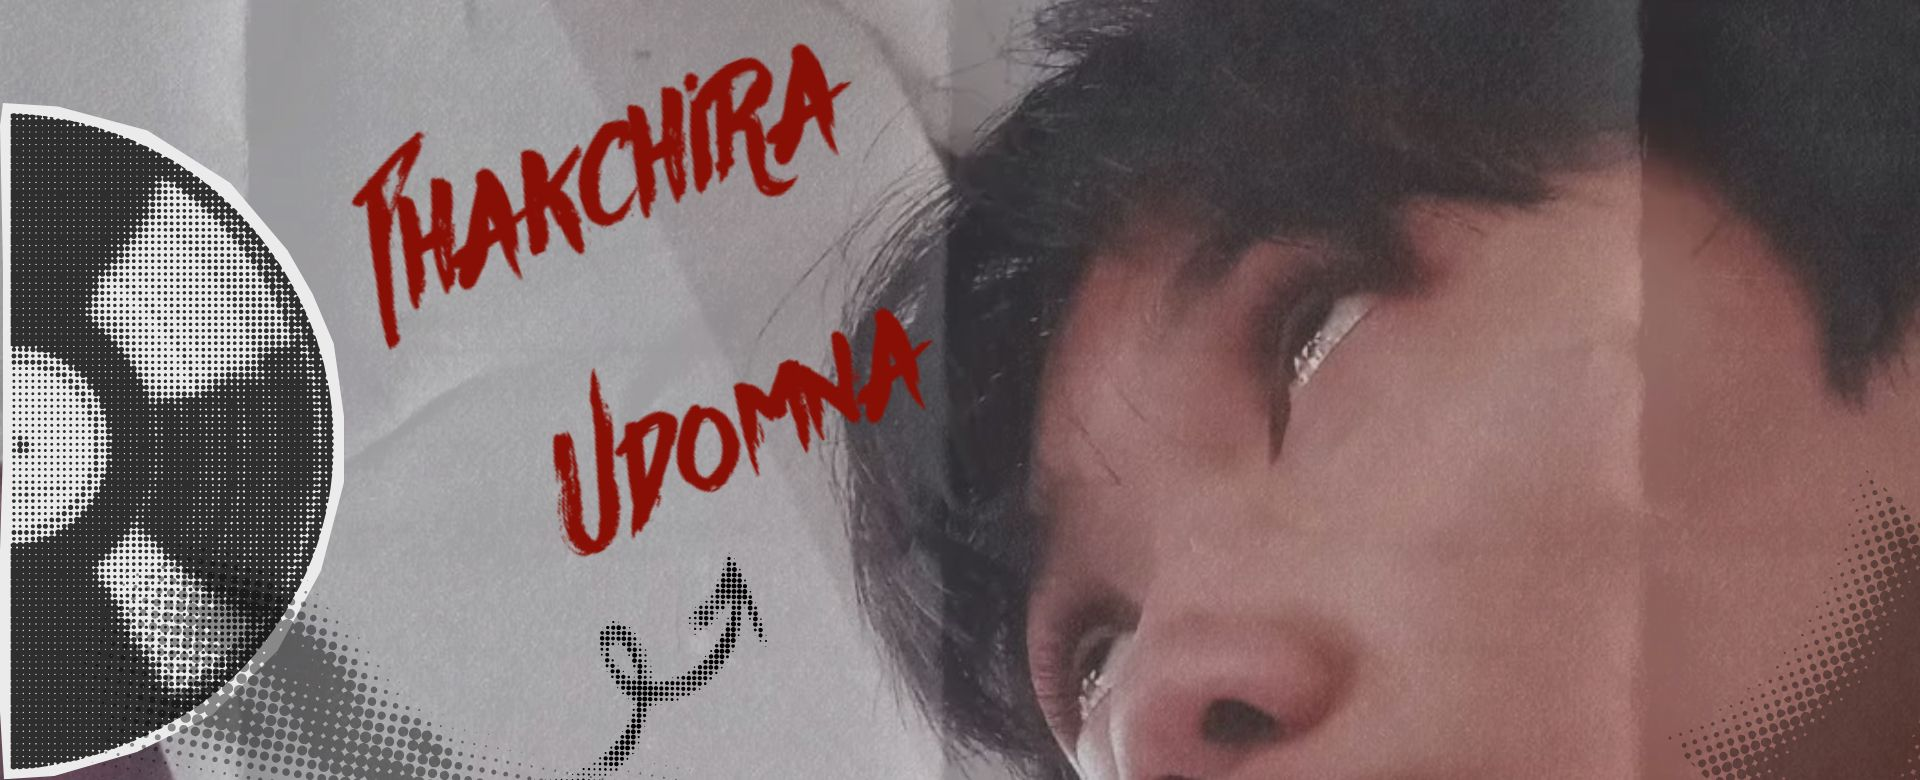
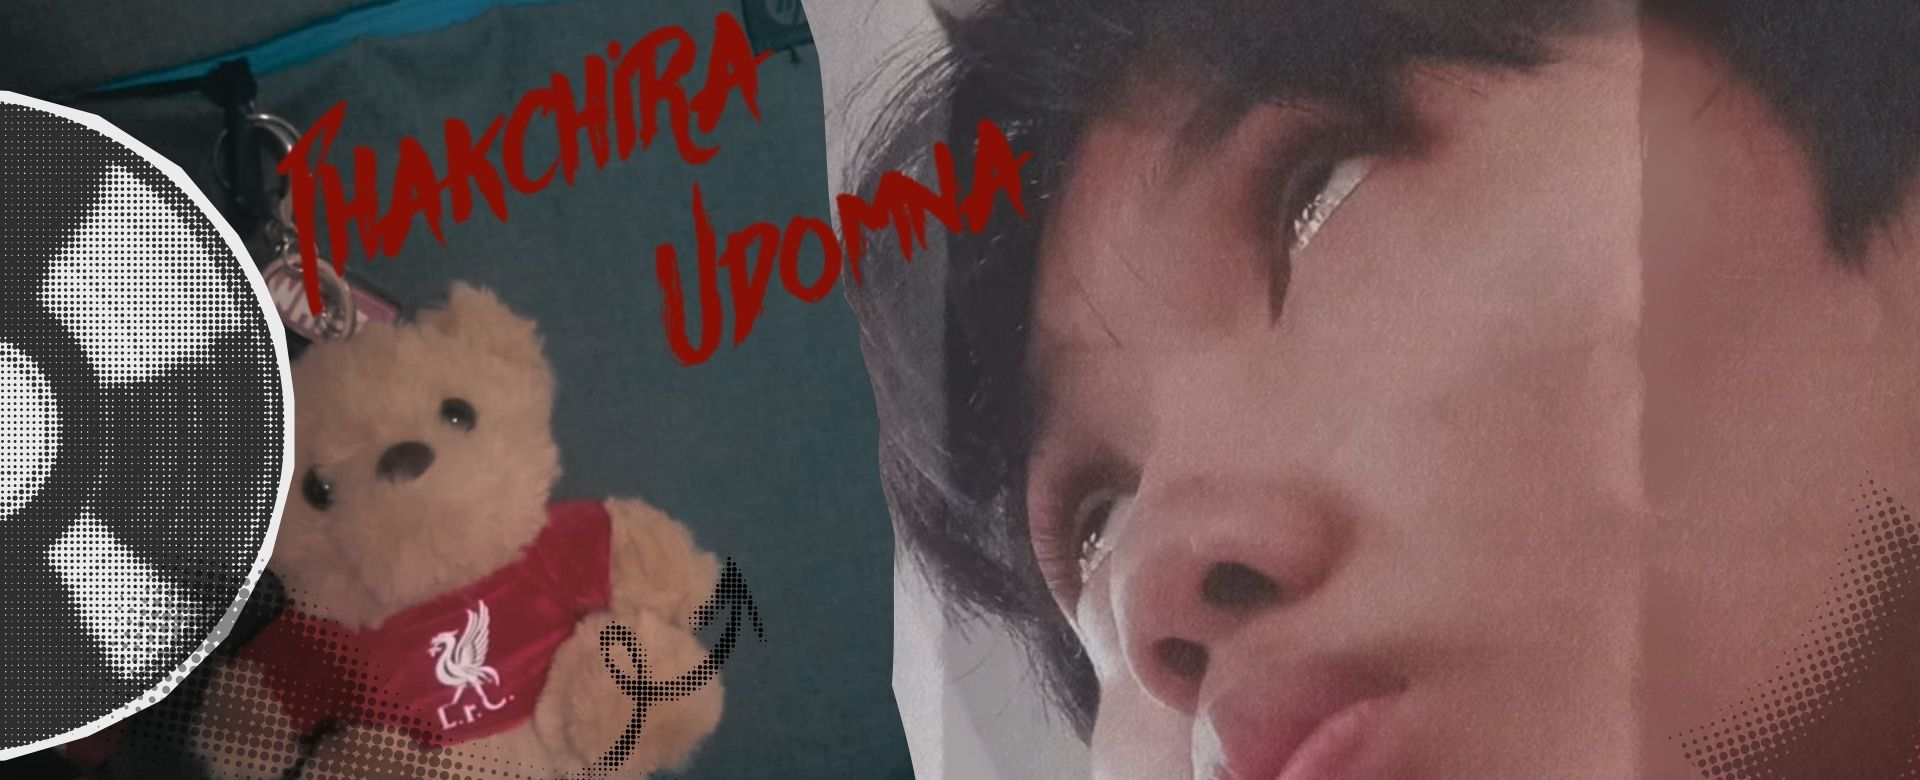
edit   index.html

diff --git a/.history/index_20250122161102.html b/.history/index_20250122161102.html
@@ -90,8 +90,10 @@
 					</div>
 
 					<figure>
-						<img src="images/mine2.png" alt="logo">
+						<img src="images/mine.png" alt="logo">
 					</figure>
+
+				<br><br>
 
 				</div><!--content-->
 			</div>

diff --git a/.history/index_20250122161105.html b/.history/index_20250122161105.html
@@ -93,6 +93,8 @@
 						<img src="images/mine2.png" alt="logo">
 					</figure>
 
+				<br><br>
+
 				</div><!--content-->
 			</div>
 		</div>
